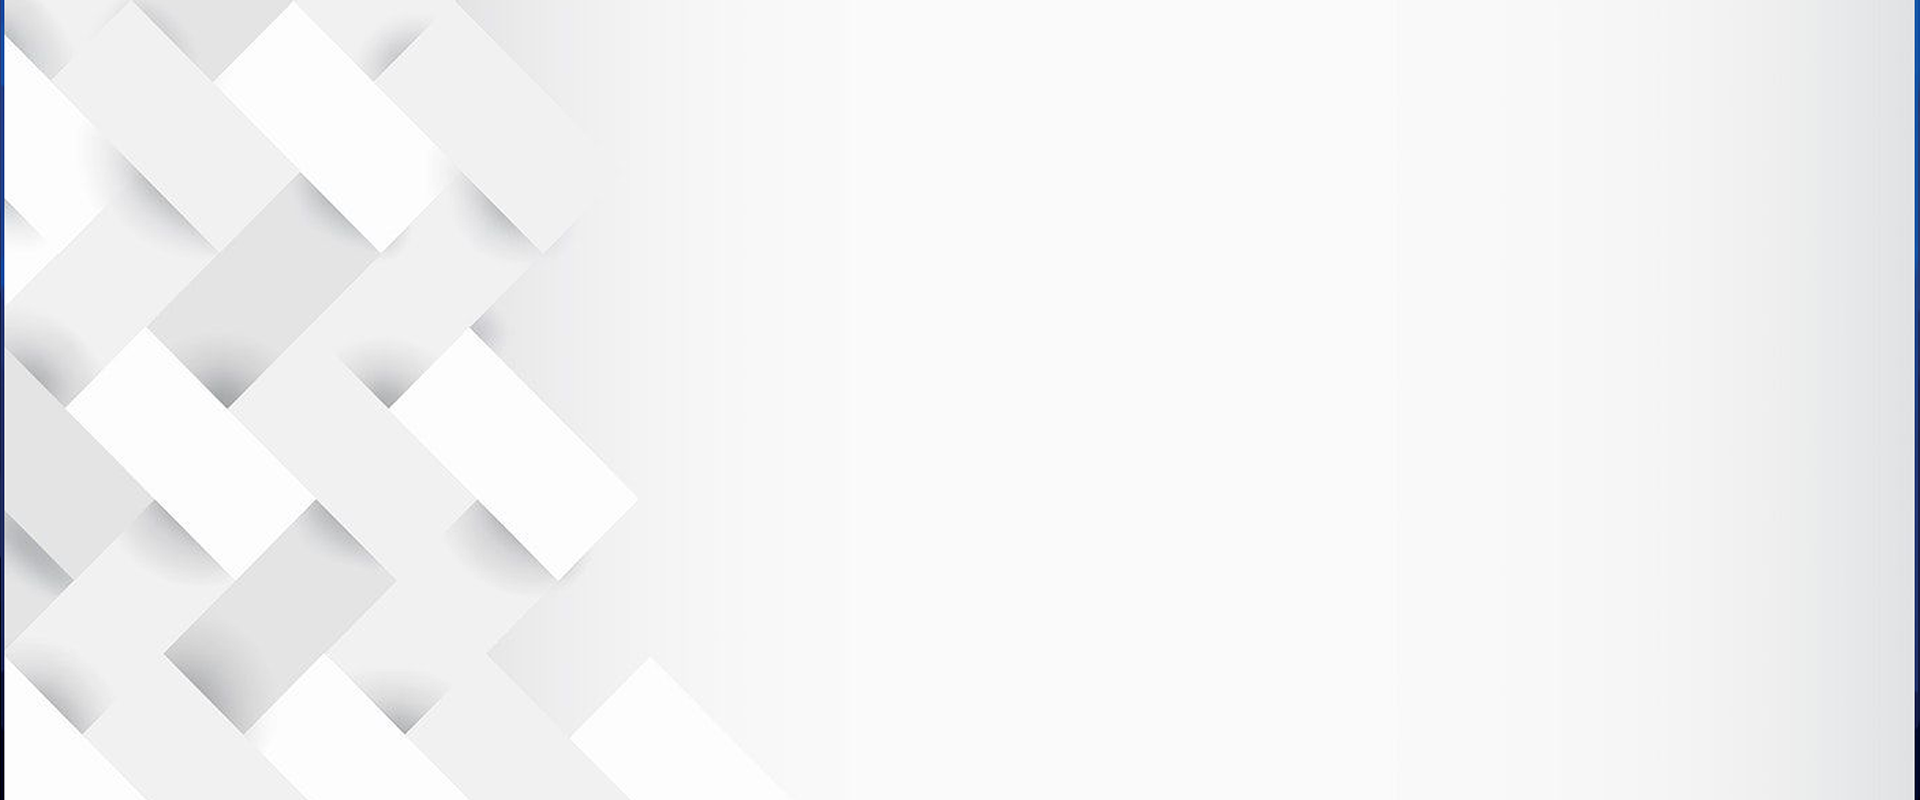
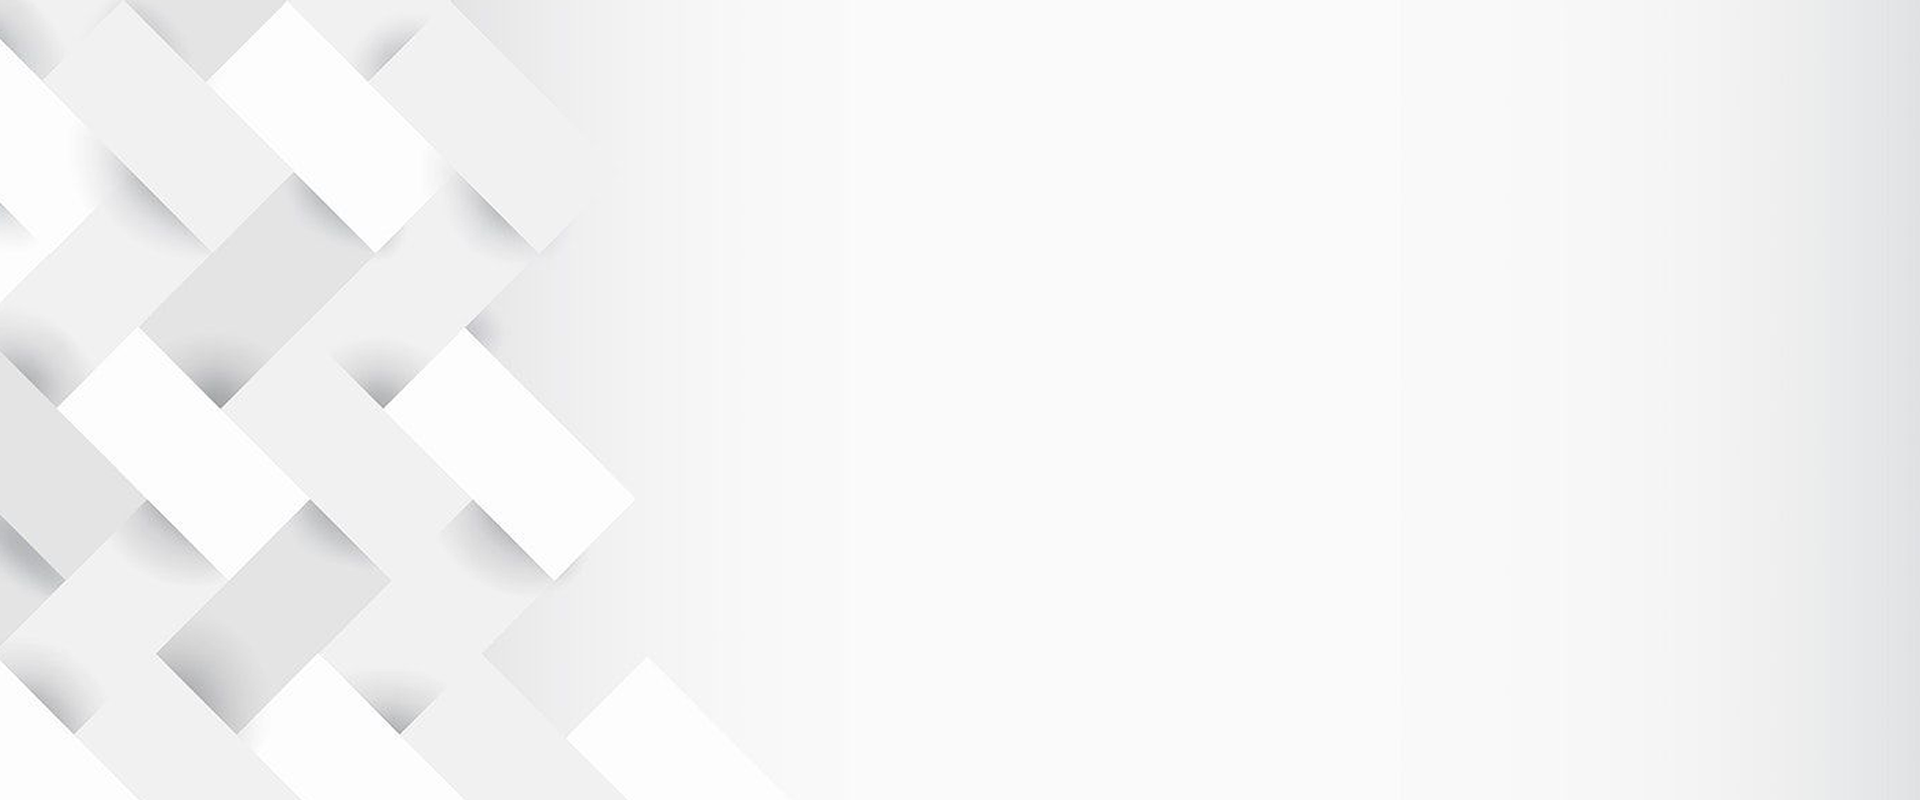
updates to improve mobile experiences

diff --git a/css/style.css b/css/style.css
@@ -165,6 +165,7 @@ h3 {
   -o-transition: 0.5s;
   transition: 0.5s;
   cursor: pointer;
+  z-index: 1;
 }
 
 .boxed-btn:hover {
@@ -176,7 +177,9 @@ h3 {
 .boxed-btn-black {
   color: #000 !important;
   display: inline-block;
+  position: relative;
   padding: 17px 49px;
+  margin: 10px 20px 0 0;
   font-family: "Roboto", sans-serif;
   font-size: 16px;
   font-weight: 500;
@@ -192,6 +195,7 @@ h3 {
   -o-transition: 0.5s;
   transition: 0.5s;
   cursor: pointer;
+  z-index: 1;
 }
 
 .boxed-btn-black:hover {
@@ -225,7 +229,7 @@ h3 {
   padding: 0;
   width: 95%;
   padding: 0;
-  border-radius: 0px;
+  border-radius: 0 0 5px 5px;
   margin-top: 5px;
   position: absolute;
   left: 0;
@@ -486,6 +490,7 @@ h3 {
   -moz-transition: 0.6s;
   -o-transition: 0.6s;
   transition: 0.6s;
+  border-radius: 5px;
 }
 
 .header-area .main-header-area .main-menu ul li .submenu li {
@@ -494,6 +499,7 @@ h3 {
 
 .header-area .main-header-area .main-menu ul li .submenu li a {
   padding: 10px 15px;
+  margin: 10px 0px;
   position: inherit;
   -webkit-transition: 0.3s;
   -moz-transition: 0.3s;
@@ -510,6 +516,7 @@ h3 {
 .header-area .main-header-area .main-menu ul li .submenu li:hover a {
   background: #aaa;
   color: #fff;
+  border-radius: 5px;
 }
 
 .header-area .main-header-area .main-menu ul li:hover > .submenu {
@@ -588,6 +595,12 @@ h3 {
 
 .slider_bg_1 {
   background-image: url(../img/banner/banner.png);
+  background-size: cover !important;
+  position: absolute;
+  left:      0px;
+  height: 100$;
+  width: 100%;
+  overflow: hidden;
 }
 
 .slider_area {
@@ -599,13 +612,7 @@ h3 {
   min-height: 100vh;
   background-size: 100% 100%;
   background-repeat: no-repeat;
-  background-position: center center;
-}
-
-@media (max-width: 767px) {
-  .slider_area .single_slider {
-    min-height: 100vh;
-  }
+  background-position: center left;
 }
 
 @media (min-width: 768px) and (max-width: 991px) {
@@ -615,18 +622,12 @@ h3 {
 }
 
 .slider_area .single_slider .slider_text {
-  padding-top: 150px;
-}
-
-@media (min-width: 992px) and (max-width: 1200px) {
-  .slider_area .single_slider .slider_text {
-    padding: 130px 0;
-  }
+  padding-top: 30vh;
 }
 
 @media (max-width: 767px) {
   .slider_area .single_slider .slider_text {
-    padding: 130px 0;
+    padding-top: 0;
   }
 }
 
@@ -672,29 +673,39 @@ h3 {
 }
 
 .slider_area .single_slider .slider_text h3 span {
-  color: #aaa;
+  color: #888;
 }
 
 @media (max-width: 767px) {
   .slider_area .single_slider .slider_text h3 {
-    font-size: 30px;
-    margin-bottom: 30px;
+    font-size: 40px;
+    margin-bottom: 20px;
     line-height: 45px;
   }
+
+  .slider_area .single_slider .slider_text h3 span {
+    font-size: 30px;
+  }
+  
+  .boxed-btn-black {
+    padding: 10px 20px;
+    margin: 10px 50% 0px 0px;
+    font-size: 12px;
+    font-weight: 500;
+  }
+
 }
 
 @media (min-width: 768px) and (max-width: 991px) {
   .slider_area .single_slider .slider_text h3 {
-    font-size: 54px;
+    font-size: 60px;
   }
+
 }
 
 @media (min-width: 992px) and (max-width: 1200px) {
   .slider_area .single_slider .slider_text h3 {
-    font-size: 70px;
-  }
-  .slider_area .single_slider .slider_text h4 {
-    font-size: 35px;
+    font-size: 65px;
   }
 }
 
@@ -720,9 +731,9 @@ h3 {
 
 .slider_area .single_slider .my_img {
   position: absolute;
-  right: 0;
+  left: 60%;
   bottom: 0;
-  width: 450px;
+  width: 480px;
 }
 
 @media (min-width: 992px) and (max-width: 1200px) {
@@ -730,6 +741,20 @@ h3 {
     width: 480px;
   }
 }
+
+@media (min-width: 768px) and (max-width: 991px) {
+  .slider_area .single_slider .my_img {
+    width: 400px;
+  }
+}
+
+@media (max-width: 767px) {
+  .slider_area .single_slider .my_img {
+    width: 300px;
+    left: 30%;
+  }
+}
+
 
 .slider_area .single_slider .my_img img {
   width: 100%;

diff --git a/css/slicknav.css b/css/slicknav.css
@@ -22,6 +22,7 @@
     float: left; }
   .slicknav_menu .slicknav_icon {
     float: left;
+    color: black;
     width: 1.125em;
     height: 0.875em;
     margin: 0.188em 0 0 0.438em; }
@@ -37,7 +38,8 @@
   .slicknav_menu .slicknav_icon-bar {
     display: block;
     width: 1.125em;
-    height: 0.125em;}
+    height: 0.125em;
+    background-color: black;}
   .slicknav_menu:before {
     content: " ";
     display: table; }
@@ -106,7 +108,7 @@
     .slicknav_nav .slicknav_row:hover {
       -webkit-border-radius: 6px;
       -moz-border-radius: 6px;
-      color: #fff;
+      text-color: #fff;
       border-radius: 6px;  }
   .slicknav_nav a {
     padding: 5px 10px;
@@ -164,28 +166,9 @@
 	position: relative;
 	z-index: 99;
 }
-/* .slicknav_menu .slicknav_open .slicknav_icon-bar:nth-child(2) {
-    opacity: 0;
-    -ms-filter: "progid:DXImageTransform.Microsoft.Alpha(Opacity=0)";
-}
-.slicknav_menu .slicknav_open .slicknav_icon-bar:nth-child(1) {
-    -webkit-transform: rotate(45deg) translate(1px, 7px);
-    -ms-transform: rotate(45deg) translate(1px, 7px);
-        transform: rotate(45deg) translate(1px, 7px);
-}
-.slicknav_menu .slicknav_open .slicknav_icon-bar:nth-child(3) {
-    -webkit-transform: rotate(-45deg) translateY(-6px);
-    -ms-transform: rotate(-45deg) translateY(-6px);
-        transform: rotate(-45deg) translateY(-6px);
-        position: relative;
-        top: -1px;
-} */
 .slicknav_menu {
   margin: 0;
   padding: 0;
-}
-.slicknav_icon-bar {
-    background: #fff !important;
 }
 .slicknav_nav {
 	background: #fff;

diff --git a/index.html b/index.html
@@ -80,14 +80,14 @@
     <div class="slider_area">
         <div class="single_slider  d-flex align-items-center slider_bg_1">
             <div class="container">
-                <div class="row align-items-center position-relative">
+                <div class="row align-items-center">
                     <div class="col-lg-9">
                         <div class="slider_text">
                           <h3>thomas lin. <br> <span> software engineer</span></h3>
                           <a class="boxed-btn-black" href="projects.html">View Works</a>
-                          <a class="boxed-btn-black" href="resume.pdf" target="_blank">Download Resume</a>
+                          <a class="boxed-btn-black" href="resume.pdf" target="_blank">Resume</a>
                           <br><br>
-                          <div class="col-lg-4">
+                          <div class="col-lg-4 d-none d-lg-block">
                             <div class="media contact-info">
                               <span class="contact-info__icon"><i class="ti-home"></i></span>
                               <div class="media-body">
@@ -105,7 +105,7 @@
                           </div>
                         </div>
                     </div>
-                    <div class="my_img d-none d-lg-block">
+                    <div class="my_img d-lg-block">
                         <img src="img/about/my_img.png" alt="">
                     </div>
                 </div>

diff --git a/about.html b/about.html
@@ -100,7 +100,7 @@
                       <p>
                       I 'm looking to create innovative solutions that bridge the gap between technology and human interaction. With a solid foundation in software development and a keen eye for user-centric design, I am enthusiastic about creating interfaces that are truly for the people.
                       </p>
-                      <a class="boxed-btn" href="resume.pdf" target="_blank">Download Resume</a>
+                      <a class="boxed-btn-black" href="resume.pdf" target="_blank">Download Resume</a>
                     </div>
                   </div>
                   <div class="col-lg-5 offset-lg-1 col-md-6">

diff --git a/css/bootstrap.min.css b/css/bootstrap.min.css
@@ -588,6 +588,7 @@ pre code {
 
 .container {
     width: 100%;
+    height: 100%;
     padding-right: 15px;
     padding-left: 15px;
     margin-right: auto;
@@ -649,12 +650,17 @@ pre code {
 
 
 .col-lg-9 {
+
+  -webkit-box-flex: 0;
+  -ms-flex: 0 0 75%;
+  flex: 0 0 75%;
+  max-width: 75%;
+  min-height: 100vh
   position: relative;
-  width: 100%;
-  min-height: 1px;
   padding-right: 15px;
   padding-left: 50px
 }
+
 
 .col-lg-6 {
   padding-bottom: 30px;
